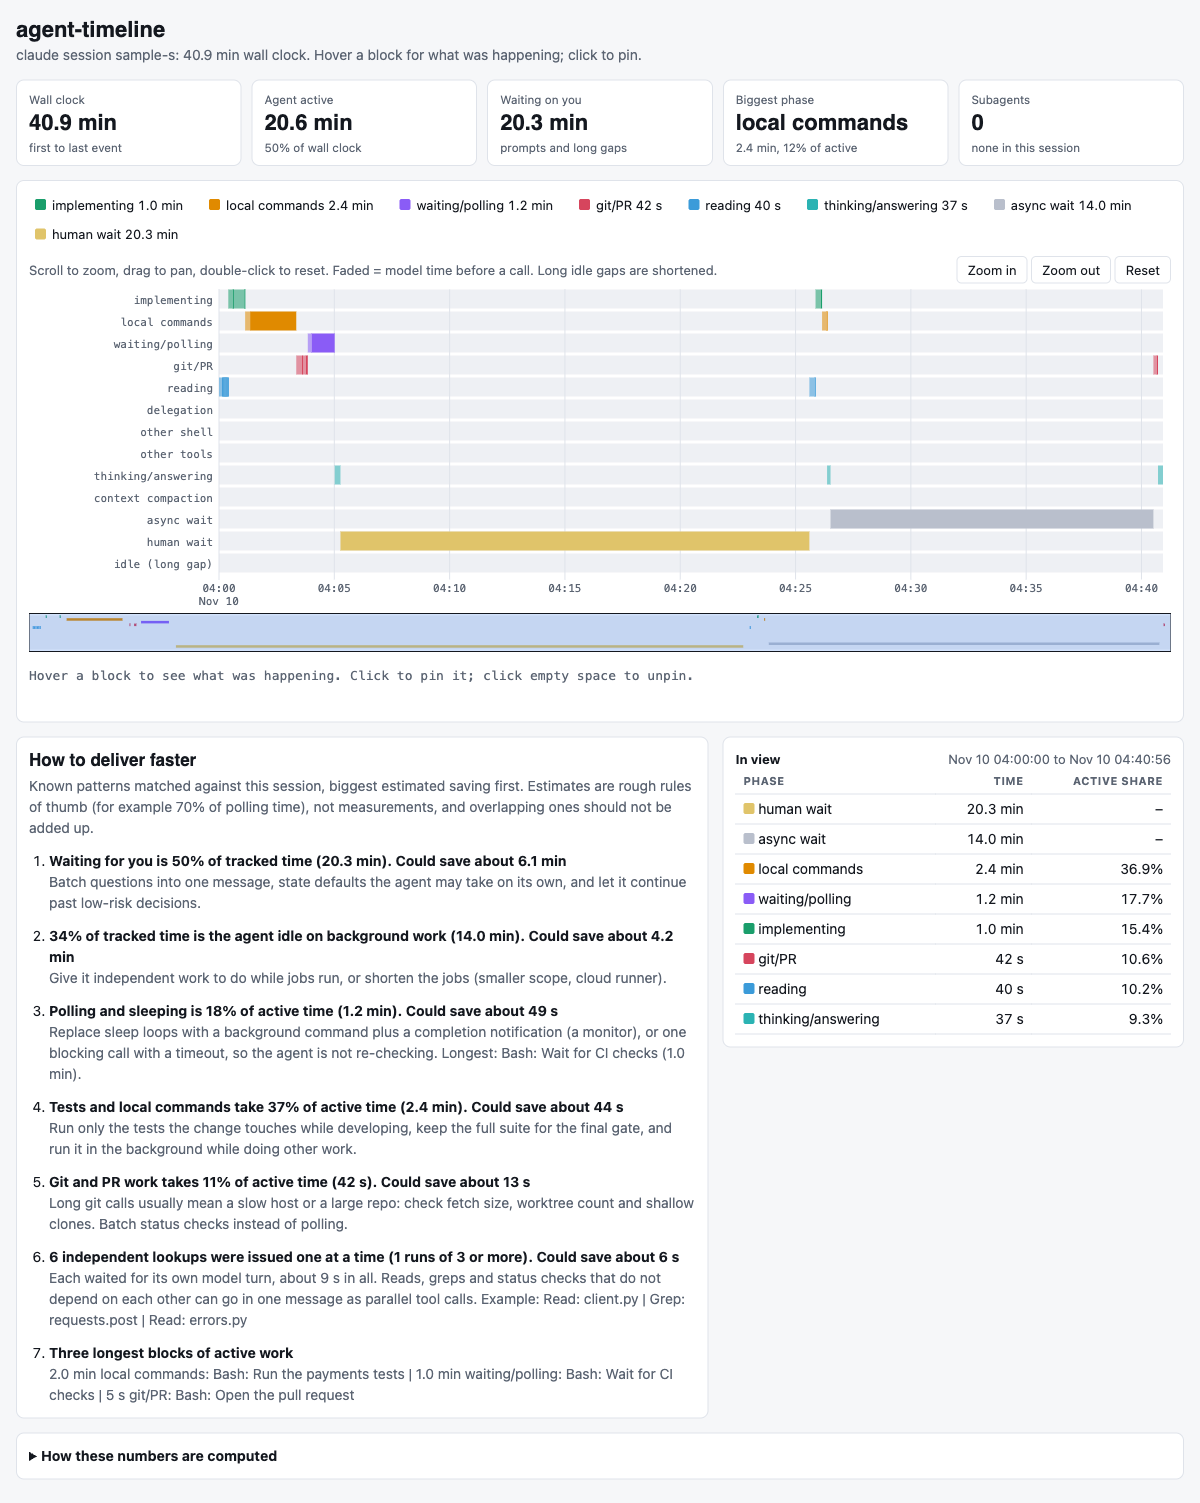
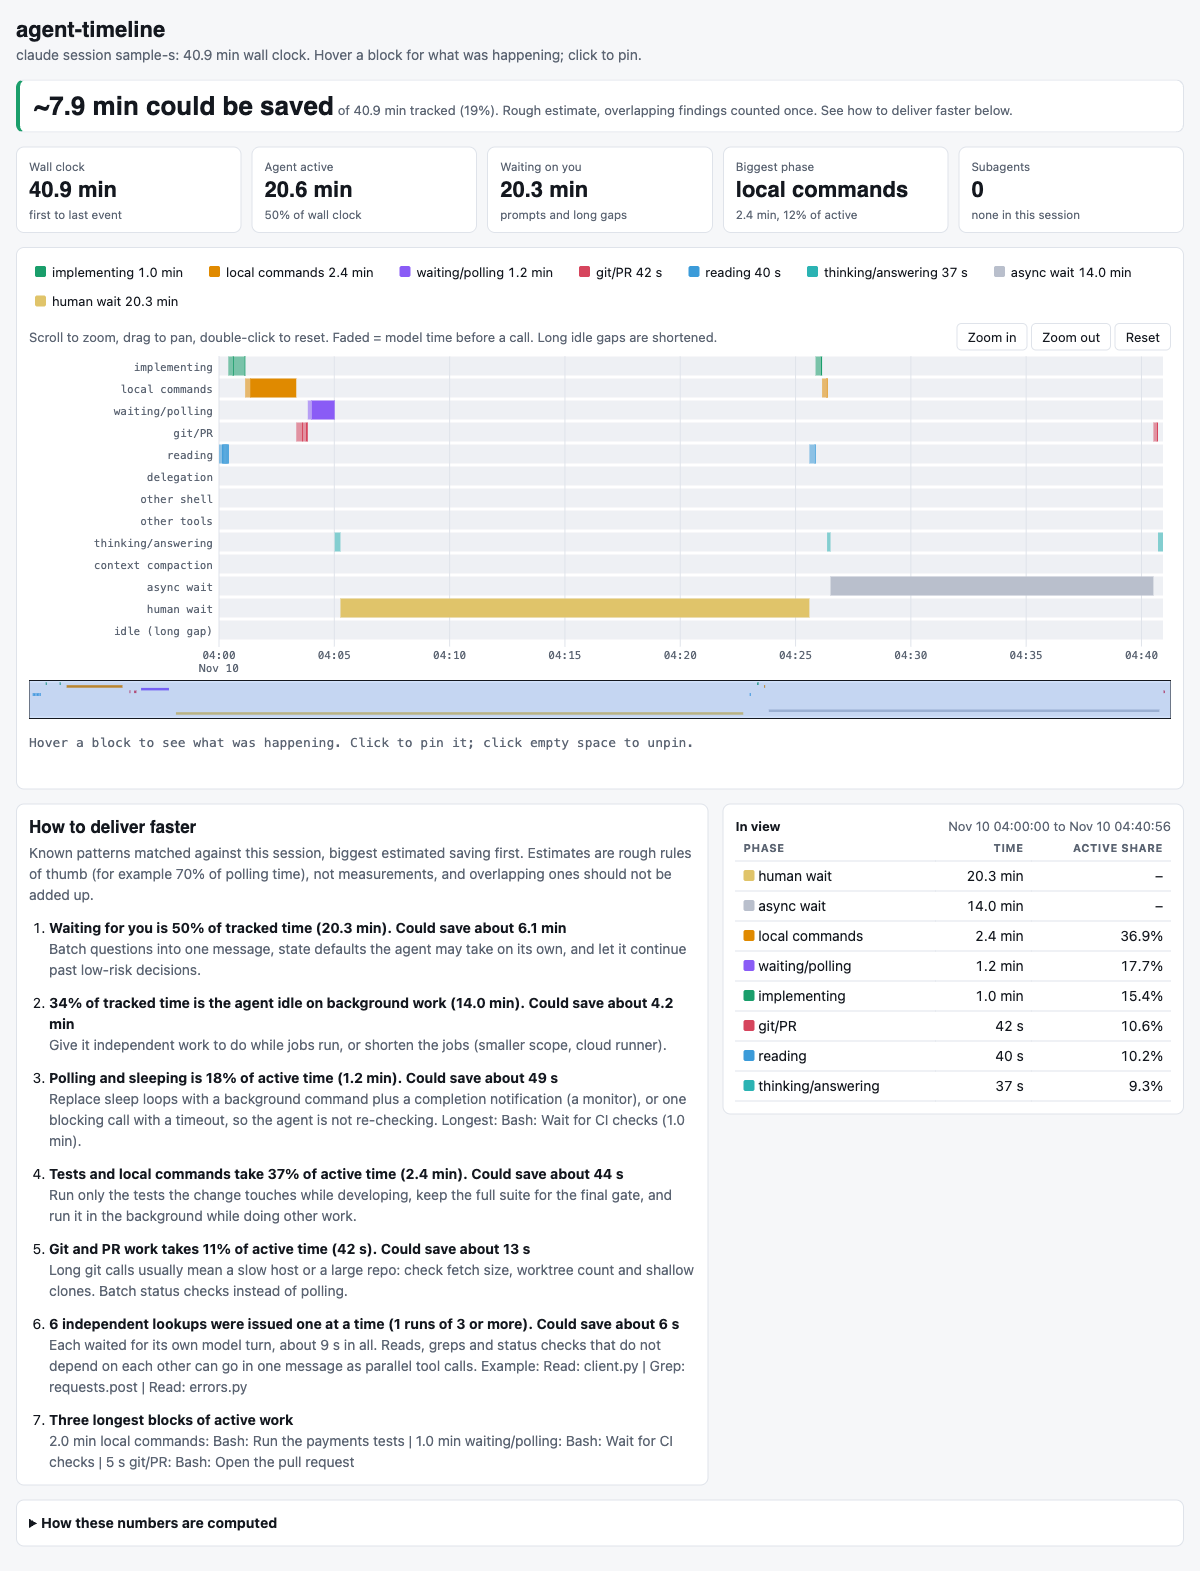
Show the savings headline above the timeline; real-session example with ~27 h found

diff --git a/docs/demo.html b/docs/demo.html
@@ -40,6 +40,7 @@ h2{font:600 17px/1.3 "Space Grotesk",Inter,sans-serif;margin:0 0 4px}
 <main>
 <header><h1>agent-timeline</h1>
 <p class="sub" id="sub"></p></header>
+<a id="save" href="#sug" style="display:none;text-decoration:none;color:inherit;background:var(--card);border:1px solid var(--line);border-left:4px solid var(--implementing);border-radius:8px;padding:10px 14px"><span id="savebig" style="font:700 26px/1.2 'Space Grotesk',Inter,sans-serif;font-variant-numeric:tabular-nums"></span> <span id="savesub" style="color:var(--mut);font-size:13px"></span></a>
 <div class="kpis" id="kpis"></div>
 <div class="card">
 <div class="legend" id="legend" style="margin-bottom:10px"></div>
@@ -192,6 +193,9 @@ function suggest(){
  if(SUBS.length){const st=SUBS.reduce((s,x)=>s+(x.end-x.start),0),sb=[...SUBS].sort((a,b)=>(b.end-b.start)-(a.end-a.start))[0];out.push([`${SUBS.length} subagents ran for ${fmt(st)} in total`,`Longest: ${sb.type}${sb.desc?': '+sb.desc:''} (${fmt(sb.end-sb.start)}). Brief subagents narrowly with a clear stop condition, run independent ones in parallel, and do quick lookups in the main thread instead of delegating them.`,0.15*st])}
  if(big.length)out.push(['Three longest blocks of active work',big.map(r=>`${fmt(r[2])} ${r[3]}${r[6]?': '+r[6]:''}`).join(' | ')]);
  if(t('implementing')/A<0.1)out.push([`Writing code is only ${pct(t('implementing'))} of active time`,'Most of the clock goes to process around the code (checks, waiting, git). That is where to look for time savings, not typing speed.']);
+ const grp=h=>/^(Polling|Tests and local|Git and PR|\d+ context compaction)/.test(h)?'p':/subagents|^Waiting for you|idle on background/.test(h)?'w':'x';
+ const gw=out.filter(o=>o[2]&&grp(o[0])==='w').reduce((m,o)=>Math.max(m,o[2]),0),gp=out.filter(o=>o[2]&&grp(o[0])==='p').reduce((m,o)=>m+o[2],0),tot=gw+gp;
+ if(tot>=60&&nonIdle>0){document.getElementById('save').style.display='';document.getElementById('savebig').textContent=`~${fmt(tot)} could be saved`;document.getElementById('savesub').textContent=`of ${fmt(nonIdle)} tracked (${(100*tot/nonIdle).toFixed(0)}%). Rough estimate, overlapping findings counted once. See how to deliver faster below.`}
  const ol=document.getElementById('sug');
  out.sort((a,b)=>(b[2]||0)-(a[2]||0));
  out.slice(0,8).forEach(([h,b,save])=>{const li=document.createElement('li'),bo=document.createElement('b'),sp=document.createElement('div');bo.textContent=save?`${h}. Could save about ${fmt(save)}`:h;sp.textContent=b;sp.style.color='var(--mut)';li.append(bo,sp);ol.appendChild(li)});

diff --git a/skills/agent-timeline/template.html b/skills/agent-timeline/template.html
@@ -40,6 +40,7 @@ h2{font:600 17px/1.3 "Space Grotesk",Inter,sans-serif;margin:0 0 4px}
 <main>
 <header><h1>agent-timeline</h1>
 <p class="sub" id="sub"></p></header>
+<a id="save" href="#sug" style="display:none;text-decoration:none;color:inherit;background:var(--card);border:1px solid var(--line);border-left:4px solid var(--implementing);border-radius:8px;padding:10px 14px"><span id="savebig" style="font:700 26px/1.2 'Space Grotesk',Inter,sans-serif;font-variant-numeric:tabular-nums"></span> <span id="savesub" style="color:var(--mut);font-size:13px"></span></a>
 <div class="kpis" id="kpis"></div>
 <div class="card">
 <div class="legend" id="legend" style="margin-bottom:10px"></div>
@@ -192,6 +193,9 @@ function suggest(){
  if(SUBS.length){const st=SUBS.reduce((s,x)=>s+(x.end-x.start),0),sb=[...SUBS].sort((a,b)=>(b.end-b.start)-(a.end-a.start))[0];out.push([`${SUBS.length} subagents ran for ${fmt(st)} in total`,`Longest: ${sb.type}${sb.desc?': '+sb.desc:''} (${fmt(sb.end-sb.start)}). Brief subagents narrowly with a clear stop condition, run independent ones in parallel, and do quick lookups in the main thread instead of delegating them.`,0.15*st])}
  if(big.length)out.push(['Three longest blocks of active work',big.map(r=>`${fmt(r[2])} ${r[3]}${r[6]?': '+r[6]:''}`).join(' | ')]);
  if(t('implementing')/A<0.1)out.push([`Writing code is only ${pct(t('implementing'))} of active time`,'Most of the clock goes to process around the code (checks, waiting, git). That is where to look for time savings, not typing speed.']);
+ const grp=h=>/^(Polling|Tests and local|Git and PR|\d+ context compaction)/.test(h)?'p':/subagents|^Waiting for you|idle on background/.test(h)?'w':'x';
+ const gw=out.filter(o=>o[2]&&grp(o[0])==='w').reduce((m,o)=>Math.max(m,o[2]),0),gp=out.filter(o=>o[2]&&grp(o[0])==='p').reduce((m,o)=>m+o[2],0),tot=gw+gp;
+ if(tot>=60&&nonIdle>0){document.getElementById('save').style.display='';document.getElementById('savebig').textContent=`~${fmt(tot)} could be saved`;document.getElementById('savesub').textContent=`of ${fmt(nonIdle)} tracked (${(100*tot/nonIdle).toFixed(0)}%). Rough estimate, overlapping findings counted once. See how to deliver faster below.`}
  const ol=document.getElementById('sug');
  out.sort((a,b)=>(b[2]||0)-(a[2]||0));
  out.slice(0,8).forEach(([h,b,save])=>{const li=document.createElement('li'),bo=document.createElement('b'),sp=document.createElement('div');bo.textContent=save?`${h}. Could save about ${fmt(save)}`:h;sp.textContent=b;sp.style.color='var(--mut)';li.append(bo,sp);ol.appendChild(li)});

diff --git a/tests/test_agent_timeline.py b/tests/test_agent_timeline.py
@@ -66,6 +66,13 @@ class Card(unittest.TestCase):
         self.assertNotIn("payments", svg)
 
 
+class Headline(unittest.TestCase):
+    def test_savings_headline_sits_above_the_timeline(self):
+        page = (ROOT / "docs" / "demo.html").read_text()
+        self.assertIn("could be saved", page)
+        self.assertLess(page.index('id="save"'), page.index('id="main"'))
+
+
 class Cursor(unittest.TestCase):
     def test_cursor_files_point_at_the_script(self):
         for rel in (".cursor/commands/agent-timeline.md", ".cursor/rules/agent-timeline.mdc"):

diff --git a/README.md b/README.md
@@ -80,12 +80,12 @@ agent-timeline reads it for you and draws it.
   <img src="https://rivusglobal.github.io/agent-timeline/assets/hover.png" width="880" alt="The same page with a human-wait block pinned: Agent said: the client now retries 5xx responses..., You then: Yes, same for the refunds client.">
 </p>
 
-### A real session
+### A real session: ~27 hours of savings found
 
-One week of a real Claude Code session, run on a trading codebase: 412 subagents (171 h of subagent time), 60 h of async wait on background jobs, and 5 h waiting on a human. The panel ranks what to change, biggest saving first, and the table shows the phase split.
+One week of a real Claude Code session on a trading codebase: 163 h of wall clock, 77.7 h tracked, 412 subagents. agent-timeline flags **~27 h (35%) that could be saved**, and the headline sits right above the timeline so it is the first thing you see. The biggest findings: subagents run one after another instead of in parallel, 78% of tracked time spent idle on background jobs, and slow git/PR calls. Estimates are rough and overlapping findings are counted once.
 
 <p align="center">
-  <img src="https://rivusglobal.github.io/agent-timeline/assets/real-session.png" width="880" alt="A real week-long session: 'How to deliver faster' ranks 412 subagents running 171 h, 78% of tracked time idle on background work, 191 subagents run back to back in 76 chains, and git/PR work at 34% of active time; the table splits time by phase.">
+  <img src="https://rivusglobal.github.io/agent-timeline/assets/real-session.png" width="880" alt="A real week-long session: the headline reads ~27.02 h could be saved of 77.73 h tracked (35%), above the KPI cards and the zoomable timeline with a lane per phase.">
 </p>
 
 ## How it works

diff --git a/.github/CONTRIBUTING.md b/.github/CONTRIBUTING.md
@@ -16,7 +16,7 @@ Any new text shown on the page must go through `phase_report.redact` and be drop
 
 ## The sample session
 
-`examples/sample-session.jsonl` and `docs/demo.html` are made up by `scripts/make_sample.py`. Never put a real session in this repo.
+`examples/sample-session.jsonl` and `docs/demo.html` are made up by `scripts/make_sample.py`. Never put a real session in this repo (no transcripts or pages). `docs/assets/real-session.png` is a cropped screenshot of the maintainers' own session, with task titles and paths cropped out.
 
 ## Logo, banner and demo GIF
 
